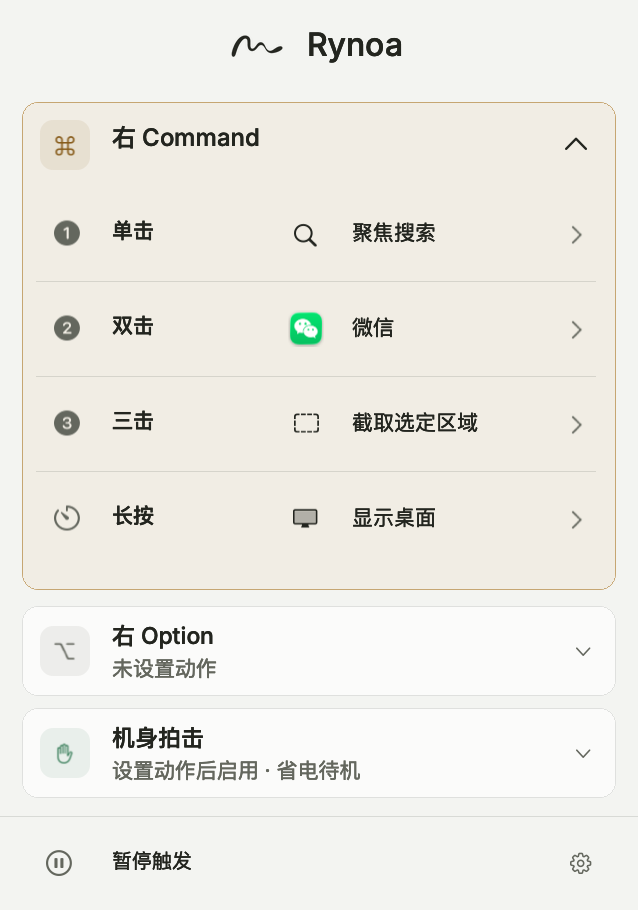
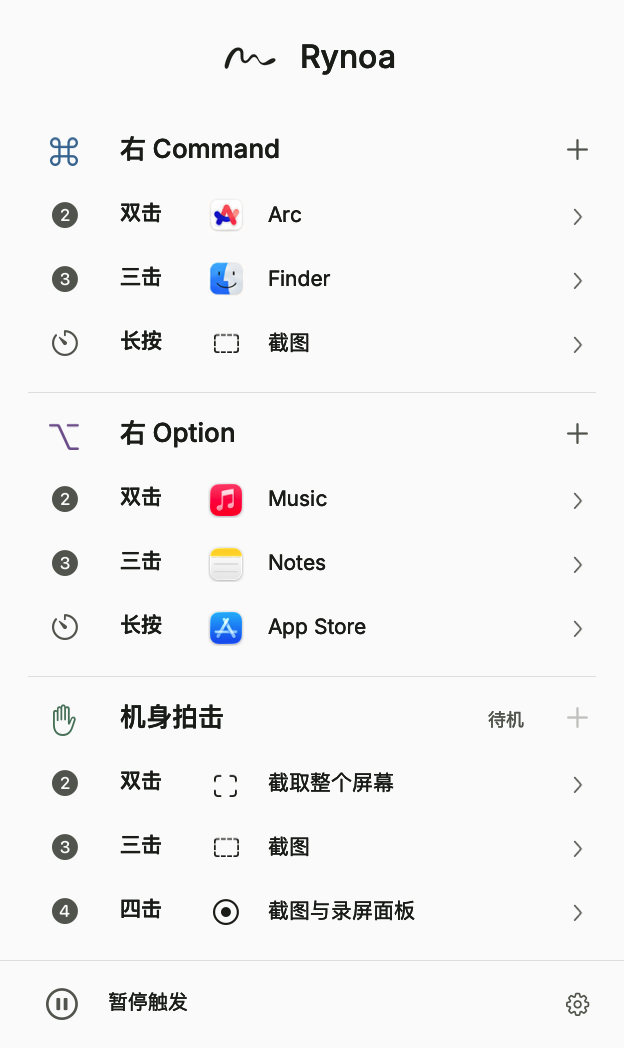
Document beta.7 setup flow and update download links

diff --git a/README.md b/README.md
@@ -9,23 +9,23 @@
 
 <p align="center">
   <a href="https://rynoa.jinso.top">官网</a> ·
-  <a href="https://github.com/JinSooo/rynoa/releases/download/v1.0.0-beta.6/Rynoa-1.0.0-beta.6.dmg"><strong>下载 Mac 版</strong></a> ·
+  <a href="https://github.com/JinSooo/rynoa/releases/download/v1.0.0-beta.7/Rynoa-1.0.0-beta.7.dmg"><strong>下载 Mac 版</strong></a> ·
   <a href="HELP.md">使用指南</a> ·
   <a href="https://github.com/JinSooo/rynoa/issues/new/choose">反馈问题</a>
 </p>
 
-<p align="center">免费测试版 · macOS 14+ · Apple Silicon / Intel<br />当前版本 v1.0.0-beta.6</p>
+<p align="center">免费测试版 · macOS 14+ · Apple Silicon / Intel<br />当前版本 v1.0.0-beta.7</p>
 
 <br />
 
 <p align="center">
-  <img src="assets/rynoa-overview.png" alt="Rynoa 菜单栏面板：为右 Command 的单击、双击、三击和长按分别设置动作" width="319" />
+  <img src="assets/rynoa-overview.png" alt="Rynoa 菜单栏面板：展示已配置的动作，通过分组右侧加号添加手势" width="319" />
 </p>
 <p align="center"><sub>真实应用界面。图中为示例配置，每个手势都可以换成你常用的动作。</sub></p>
 
 ## 一个手势，少几步操作
 
-打开微信、呼出聚焦搜索、截取屏幕、显示桌面——Rynoa 常驻菜单栏，让这些小事随手完成。
+打开微信、呼出聚焦搜索、截取屏幕、最小化窗口——Rynoa 常驻菜单栏，让这些小事随手完成。
 
 | 触发方式 | 可设置的手势 |
 | --- | --- |
@@ -39,16 +39,16 @@
 
 ## 安装，设置，然后试一下
 
-1. [下载 Rynoa DMG](https://github.com/JinSooo/rynoa/releases/download/v1.0.0-beta.6/Rynoa-1.0.0-beta.6.dmg)，升级前先退出旧版。
+1. [下载 Rynoa DMG](https://github.com/JinSooo/rynoa/releases/download/v1.0.0-beta.7/Rynoa-1.0.0-beta.7.dmg)，升级前先退出旧版。
 2. 打开安装包，将 **Rynoa** 拖到 **Applications**，再从“应用程序”打开。
 3. 按首次使用引导，在“系统设置 → 隐私与安全性”允许**输入监控**与**辅助功能**。
-4. 点击菜单栏 Rynoa 图标，给一个手势设置动作，开始使用。
+4. 点击菜单栏 Rynoa 图标，点击分组标题右侧的 **+** 添加手势，再选择动作。已有绑定直接显示，点击即可修改。
 
 <p align="center">
   <img src="assets/rynoa-installer.png" alt="Rynoa 安装窗口：将左侧彩色 Rynoa 图标拖入右侧 Applications 文件夹" width="540" />
 </p>
 
-应用与系统动作选中即保存；录制热键后点“完成”。遇到问题可查看[完整使用指南与故障排查](HELP.md)。
+应用与系统动作选中即保存；录制热键后点“完成”。面板关闭后 **5 秒内重新打开**，会回到刚才的页面，保留搜索与尚未提交的热键草稿；超过 5 秒回到主界面。遇到问题可查看[完整使用指南与故障排查](HELP.md)。
 
 > 当前为开发签名测试包，尚未完成 Developer ID 发行签名与 Apple 公证，macOS 可能阻止打开。长期拍击体验、睡眠唤醒和更多机型兼容性仍在验证。
 
@@ -60,9 +60,9 @@
 
 ## 更新与反馈
 
-请直接查看 [Releases](https://github.com/JinSooo/rynoa/releases) 获取新版本。仓库已更名，**beta.6 及更早版本的应用内更新检查可能误报“已是最新版本”**，请以 Releases 为准。应用不会自动下载或安装。更新时退出 Rynoa，用新版本替换“应用程序”中的旧版，再重新打开，原有动作配置会保留。
+请直接查看 [Releases](https://github.com/JinSooo/rynoa/releases) 获取新版本。仓库已更名，**beta.6 及更早版本的应用内更新检查可能误报“已是最新版本”**，请以 Releases 为准。beta.7 已修复更新地址。应用不会自动下载或安装。更新时退出 Rynoa，用新版本替换“应用程序”中的旧版，再重新打开，其余动作与偏好会保留；beta.7 会清除已移除的六项系统动作绑定，并在本机备份原配置，受影响的手势需要重新设置。
 
-- [版本说明](https://github.com/JinSooo/rynoa/releases/tag/v1.0.0-beta.6) · [完整变更记录](CHANGELOG.md)
+- [版本说明](https://github.com/JinSooo/rynoa/releases/tag/v1.0.0-beta.7) · [完整变更记录](CHANGELOG.md)
 - 问题与建议：[提交 Issue](https://github.com/JinSooo/rynoa/issues/new/choose)，请附版本、macOS、Mac 型号与复现步骤。
 - 私密问题：[kimjinso@qq.com](mailto:kimjinso@qq.com)。请勿在公开 Issue 上传个人信息、订单或许可证。详见[支持说明](SUPPORT.md)。
 

diff --git a/HELP.md b/HELP.md
@@ -6,8 +6,10 @@ Rynoa 常驻 Mac 屏幕顶部菜单栏。找不到窗口时，点击菜单栏的
 
 1. 安装后阅读“开始使用”。以后可从“设置 → 帮助与关于”再次打开。
 2. 在“系统设置 → 隐私与安全性”允许 Rynoa 的输入监控和辅助功能。输入监控识别右 Command / Option 手势，辅助功能发送你配置的快捷键和系统动作。
-3. 选择触发来源和手势，再选择应用、热键或系统动作。应用/系统动作选中即保存；热键录制后点“完成”，返回则放弃修改。
+3. 点击触发分组右侧的 **+** 添加手势，再选择应用、热键或系统动作；主界面只显示已配置项，点击已有动作可修改。应用/系统动作选中即保存；热键录制后点“完成”，返回则放弃修改。
 4. 从一个常用手势开始尝试。主界面的“暂停触发”可以暂时停止所有动作。
+
+关闭面板后 5 秒内重新打开，会恢复刚才的页面、搜索内容与尚未提交的热键草稿；超过 5 秒则回到主界面。应用列表会将当前绑定置顶，搜索可查找其他应用。
 
 ## 键盘手势
 
@@ -32,11 +34,11 @@ Rynoa 常驻 Mac 屏幕顶部菜单栏。找不到窗口时，点击菜单栏的
 
 ## 更新
 
-仓库已从 `rynoa-releases` 更名为 `rynoa`。**beta.6 及更早版本的应用内更新检查可能误报“已是最新版本”**，请直接查看 [Releases](https://github.com/JinSooo/rynoa/releases) 获取新版本。应用不会自动下载或安装。
+仓库已从 `rynoa-releases` 更名为 `rynoa`。**beta.6 及更早版本的应用内更新检查可能误报“已是最新版本”**，beta.7 已修复更新地址；旧版请直接查看 [Releases](https://github.com/JinSooo/rynoa/releases) 获取新版本。应用不会自动下载或安装。
 
 测试版检查后续测试版及稳定版；稳定版只检查稳定版本。仅推荐已有 DMG 附件的发布。网络失败时可以重试或直接打开 [Releases](https://github.com/JinSooo/rynoa/releases)。
 
-安装更新：退出旧 Rynoa → 下载新 DMG → 将新应用拖入“应用程序”并替换 → 重新打开。原有动作和偏好会保留。请先保留旧 DMG，便于遇到问题时恢复上一版。
+安装更新：退出旧 Rynoa → 下载新 DMG → 将新应用拖入“应用程序”并替换 → 重新打开。beta.7 移除了调度中心、显示桌面、应用程序窗口、上一个桌面、下一个桌面、表情与符号六项不稳定系统动作。升级会在本机备份原配置，仅清除这些动作的绑定；其他动作和偏好保留。受影响的手势可通过分组右侧 + 重新设置。请先保留旧 DMG，便于遇到问题时恢复上一版。
 
 ## 退出与卸载
 

diff --git a/CHANGELOG.md b/CHANGELOG.md
@@ -1,5 +1,18 @@
 # 变更记录
 
+## v1.0.0-beta.7 — 2026-09-11
+
+应用内版本 1.0.0 (7)。免费公开测试版。
+
+- 主界面只显示已配置的动作，通过分组右侧 + 添加手势；调整分组图标、行距与对齐。
+- 应用选择将当前绑定置顶，优化搜索和列表层级；修复中文搜索文字进入编辑时的位置跳动。
+- 简化热键编辑、统一系统动作行布局；面板关闭后 5 秒内重开，可恢复页面、搜索和未提交的热键草稿，超过 5 秒回到主界面。
+- 修复应用隐藏后的打开与聚焦行为。
+- 移除调度中心、显示桌面、应用程序窗口、上一个桌面、下一个桌面、表情与符号六项不稳定系统动作。升级会备份原配置，仅清除这些动作的绑定，其他配置保留；受影响的手势需重新设置。
+- 修复仓库更名后的应用内更新检查地址。
+
+沿用免费、离线可用、无需激活的公开 Beta；继续使用开发签名，尚未完成 Apple 公证。
+
 ## v1.0.0-beta.6 — 2026-09-11
 
 应用内版本 1.0.0 (6)。免费公开测试版。
